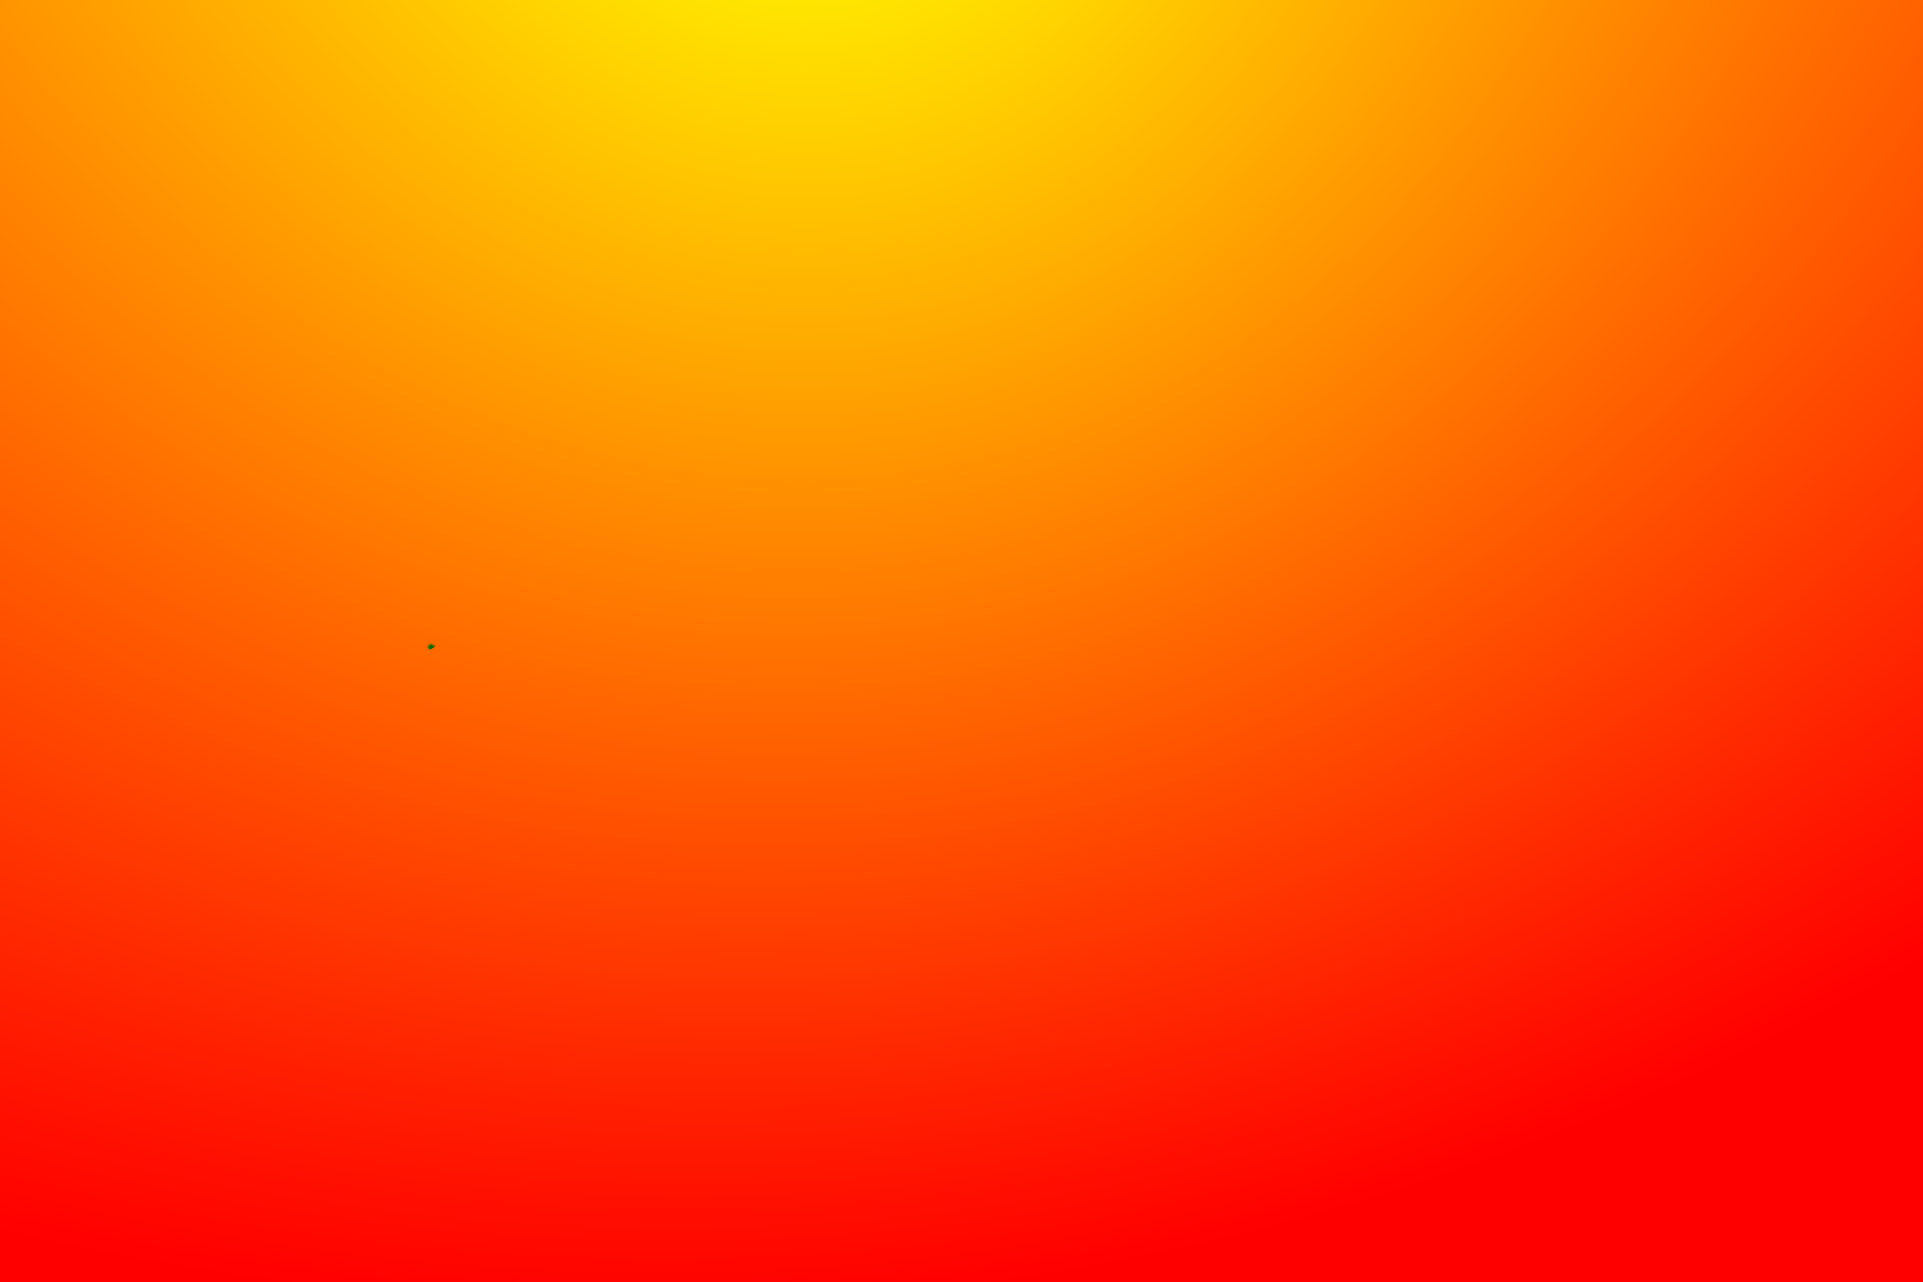
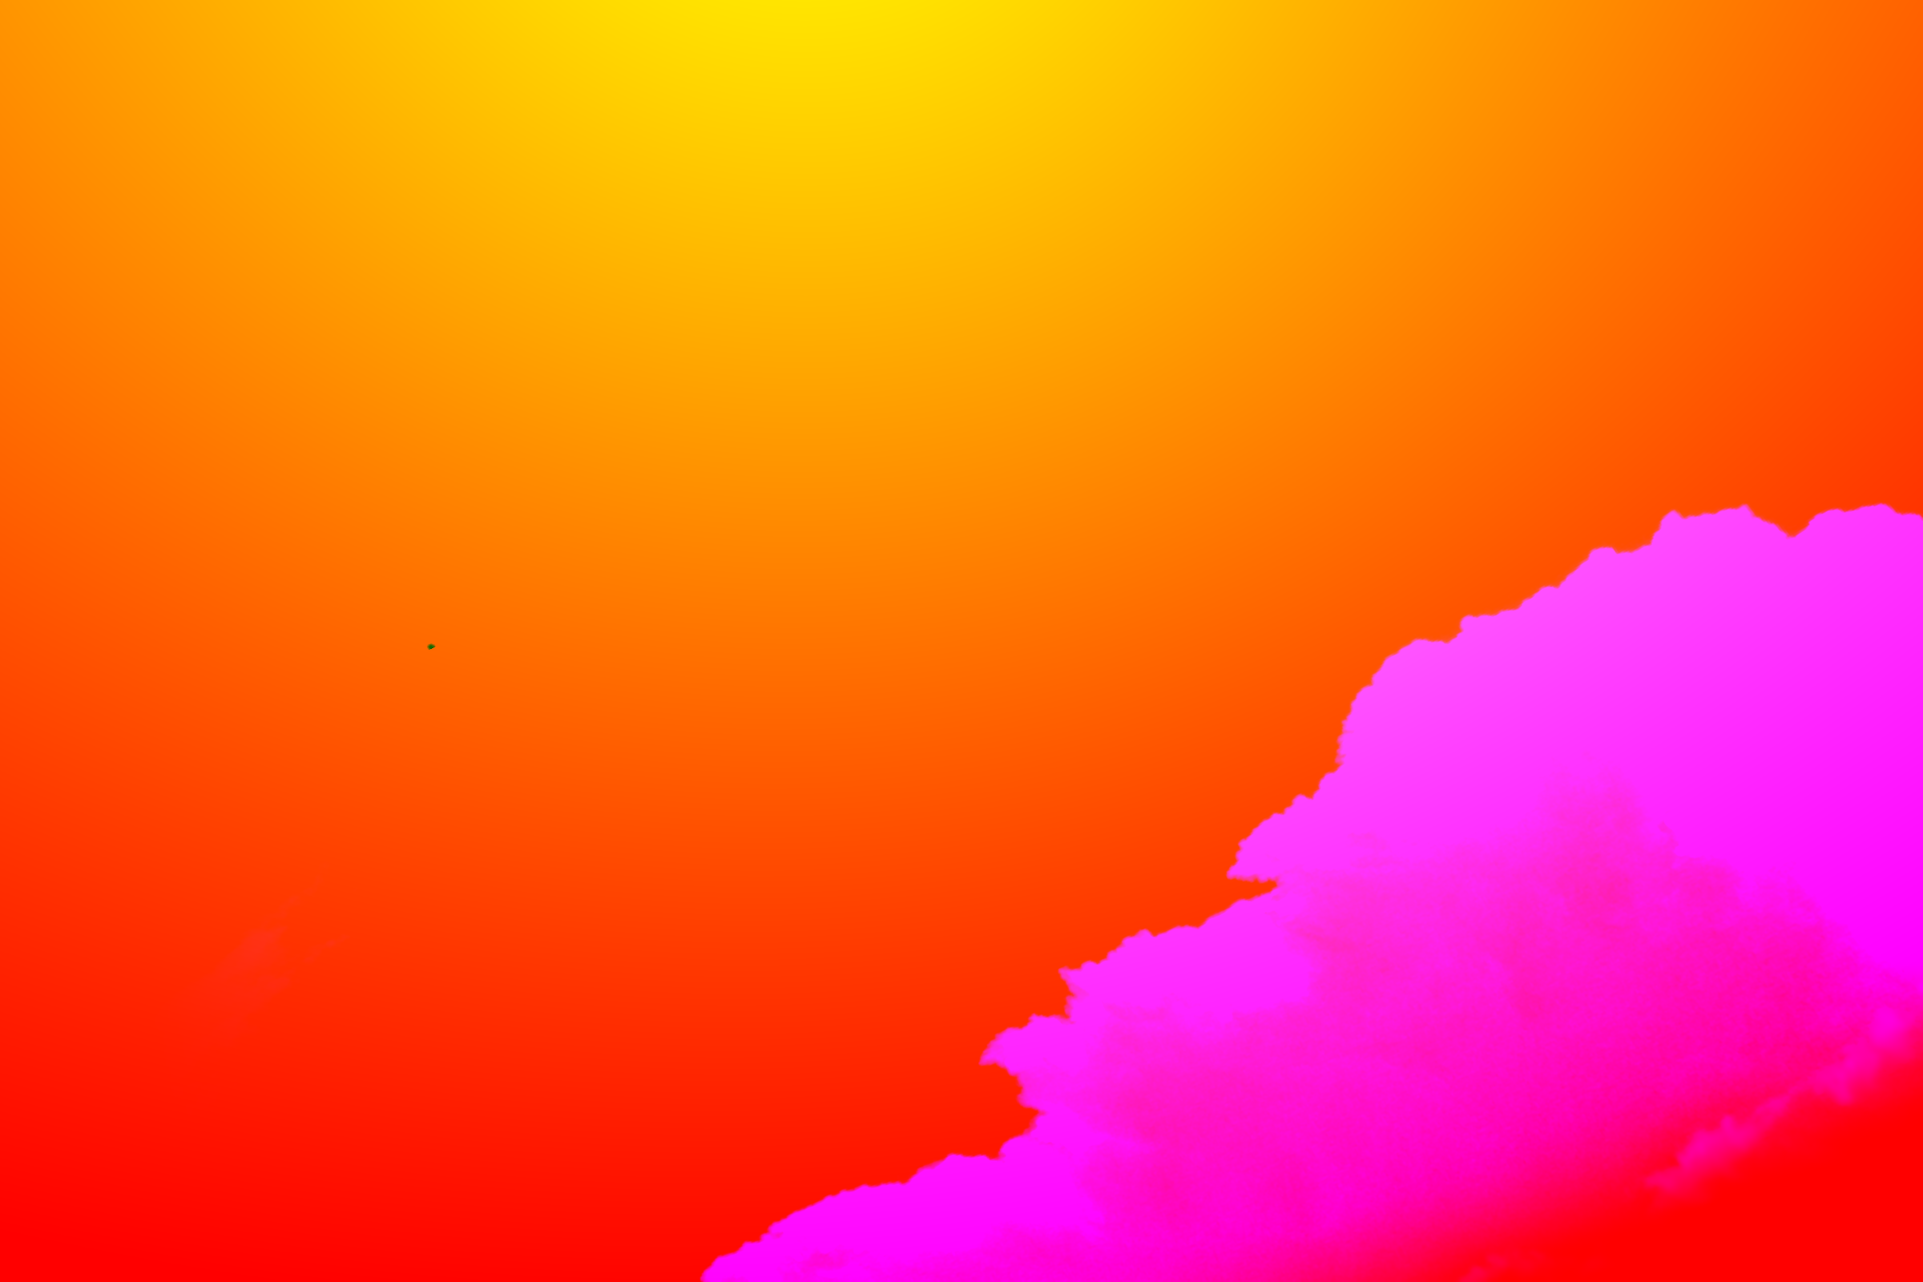
Lab: climb denchuka round 1
Claude-Session: https://claude.ai/code/session_01RqENhngNCzDFmJWDZueXGV

Changed region(s): [[0.3438, 0.375, 1.0, 1.0]]

diff --git a/src/app/lab/denchuka/denchukaEngine.js b/src/app/lab/denchuka/denchukaEngine.js
@@ -39,6 +39,14 @@ import { createFilm, FILM_PRESETS } from "../_kit/film";
 // up the sky each pixel looks, from the camera), with skylight-blue shade and
 // warm sunlit tops on the cloud; the film then adds only its optics.
 //
+// Behind the pole, rising from the lower right behind the shaft, stands a
+// real towering cumulus (cloud.py: Poly Haven's Skidpan HDRI, CC0, placed
+// under this camera so its verticals converge with the pole's), laid into the
+// same regrade through the same matte (sky.png B its coverage, cloud.webp its
+// colour): its sunlit tops warm-neutral and rolled off below white, its shade
+// the skylight's blue, deepening up the sky with the cobalt. Each removal
+// uncovers more of it; at the end it is the subject of the clean sky.
+//
 // Query: ?year=0..1 holds the years (elements caught mid-motion, as a still);
 // ?film=0 shows the plates before the film.
 
@@ -83,7 +91,8 @@ uniform sampler2D uP2;
 uniform sampler2D uP3;
 uniform highp sampler2D uIds;
 uniform sampler2D uAlpha;
-uniform sampler2D uSky;           // r: the sky with everything overhead gone (1 = sky); g: elevation
+uniform sampler2D uSky;           // r: the sky with everything overhead gone (1 = sky); g: elevation; b: the cumulus
+uniform sampler2D uCloud;         // the cumulus's own colour (cloud.py)
 uniform highp sampler2D uState;   // x: id, row 0 wires / 1 hardware / 2 poles: 1 = in place
 uniform vec2 uPlate;
 uniform int uNW;
@@ -151,6 +160,20 @@ vec3 skyGrade(vec3 c, float zen) {
   vec3 cloud = mix(shadeC, sunC, top);
   return mix(cloud, sky, blue);
 }
+// The towering cumulus (cloud.py: a photographed tower, unclipped, placed
+// under this camera) graded into the same light: its shade sides take the
+// skylight's blue, deeper and more saturated the higher up the sky they are
+// (the cobalt ramp, zen), its sunlit tops go warm-neutral and roll off below
+// white; in between it stays near neutral.
+vec3 cloudGrade(vec3 c, float zen) {
+  float v = dot(c, vec3(0.2126, 0.7152, 0.0722));
+  float top = smoothstep(0.83, 0.95, v);
+  float shade = 1.0 - smoothstep(0.58, 0.86, v);
+  float val = v * mix(1.0, mix(0.97, 0.9, zen), shade);
+  vec3 shadeC = hsv2rgb(vec3((211.0 + 4.0 * zen) / 360.0, 0.07 + shade * mix(0.17, 0.25, zen), val));
+  vec3 sunC = hsv2rgb(vec3(38.0 / 360.0, 0.075, min(val, 0.955)));
+  return mix(shadeC, sunC, top);
+}
 // A wire's matte at a plate point, filtered bilinearly over its own texels
 // only, so a wire moved by a fraction of a pixel keeps its sub-pixel width
 // instead of snapping to the grid. best: its densest texel there (for colour).
@@ -202,11 +225,15 @@ void main() {
   // (photo = a x object + (1 - a) x sky), so only the sky's share is moved,
   // by the grade of the sky behind everything (p3). Grading the mixed rim
   // pixel itself leaves the teal in it: a green outline round every shaft.
-  vec2 sk = texture(uSky, pp / uPlate).rg;
+  // The cumulus stands in that same sky, behind everything: wherever the sky
+  // shows, the cloud is laid over the regraded sky at its own coverage (b).
+  vec3 sk = texture(uSky, pp / uPlate).rgb;
   float skyA = sk.r * (1.0 - cov);
   if (skyA > 0.002) {
     vec3 behind = plate(3, pp, rk);
-    col = clamp(col + skyA * (skyGrade(behind, sk.g) - behind), 0.0, 1.0);
+    vec3 graded = skyGrade(behind, sk.g);
+    if (sk.b > 0.002) graded = mix(graded, cloudGrade(texture(uCloud, pp / uPlate).rgb, sk.g), sk.b);
+    col = clamp(col + skyA * (graded - behind), 0.0, 1.0);
   }
 
   // poles going down their own axes, into the ground
@@ -557,12 +584,15 @@ export async function createDenchuka(host, { embedded = false } = {}) {
 
   const [els, ...imgs] = await Promise.all([
     fetch(BASE + "elements.json").then((r) => r.json()),
-    ...["p0.webp", "p1.webp", "p2.webp", "p3.webp", "ids.png", "alpha.png", "sky.png"].map((f) => loadImage(BASE + f)),
+    ...["p0.webp", "p1.webp", "p2.webp", "p3.webp", "ids.png", "alpha.png", "sky.png", "cloud.webp"].map((f) =>
+      loadImage(BASE + f),
+    ),
   ]);
   const plates = imgs.slice(0, 4).map((im) => imageTexture(gl, im));
   const idsTex = imageTexture(gl, imgs[4], true);
   const alphaTex = imageTexture(gl, imgs[5], true);
   const skyTex = imageTexture(gl, imgs[6]);
+  const cloudTex = imageTexture(gl, imgs[7]);
 
   // Element table.
   // a is the element's progress here, so the span's start is kept as from
@@ -762,6 +792,7 @@ export async function createDenchuka(host, { embedded = false } = {}) {
     bindTex(5, alphaTex, u.uAlpha);
     bindTex(6, stateTex, u.uState);
     bindTex(7, skyTex, u.uSky);
+    bindTex(8, cloudTex, u.uCloud);
     gl.uniform2f(u.uPlate, PW, PH);
     gl.uniform1i(u.uNW, nw);
     gl.uniform4fv(u.uW, uW);
@@ -896,7 +927,7 @@ export async function createDenchuka(host, { embedded = false } = {}) {
       host.removeEventListener("keydown", onKey);
       film.destroy();
       Object.values(T).forEach((t) => freeTarget(gl, t));
-      [...plates, idsTex, alphaTex, skyTex, stateTex].forEach((t) => gl.deleteTexture(t));
+      [...plates, idsTex, alphaTex, skyTex, cloudTex, stateTex].forEach((t) => gl.deleteTexture(t));
       Object.values(P).forEach((p) => gl.deleteProgram(p.p));
       gl.deleteBuffer(quad);
       gl.deleteVertexArray(vao);

diff --git a/tools/depth/bakes/denchuka/cloud.py b/tools/depth/bakes/denchuka/cloud.py
@@ -1,0 +1,252 @@
+# Denchuka, step 5: the towering cumulus behind the pole.
+#
+#   python3 -I cloud.py <skidpan_16k.hdr> <public/lab/denchuka> [preview.jpg [matte.jpg]]
+#
+# (skidpan_16k.hdr: https://dl.polyhaven.org/file/ph-assets/HDRIs/hdr/16k%2B/skidpan_16k.hdr;
+# CLOUD_DEBUG=<jpg> also writes the HDRI window with what the base is cut above)
+#
+# The scan's sky has no cloud worth the name: a few wisps and a grey fragment cut
+# off at the top right. This puts a real, photographed towering cumulus behind
+# the pole, rising from the lower right behind the shaft, so each removal (the
+# wires, then the hardware, then the pole) uncovers more of it and the clean sky
+# at the end has a subject.
+#
+# The cloud: Poly Haven's "Skidpan" HDRI (Dimitrios Savva, Jarod Guest, CC0), a
+# convective tower over the horizon about 75 degrees round from its sun, lit
+# from the front and a little from the right (as the pole is), in scene-linear
+# radiance, so its sunlit tops are unclipped.
+#
+# Placed under the photograph's own camera (f and the zenith's vanishing point
+# from elements.json, export.py): the cloud stands in a vertical plane through
+# the zenith, so its verticals converge on the same vanishing point as the
+# pole's, and the camera's roll tilts it with the pole. The HDRI's tower stands
+# 3..28 degrees up; here it is nearer (twice the size, the same both ways, so
+# its billows keep their shape) and higher, its crown right of the shaft at
+# mid-frame. Its lower flank stands behind a tree in the HDRI, so it is given
+# a flat base above the tree, shaded, which falls at the bottom right corner.
+#
+# Matte: the sky in the HDRI is a saturated blue, the cloud near neutral, so
+# the cloud's coverage is how far a pixel's blue excess q = (B - R) / (B + R)
+# has fallen from the clear sky's (fitted smoothly round it) toward the
+# cloud's. The cloud's own colour is unmixed from the sky behind it
+# (pixel = a x cloud + (1 - a) x sky), filled outward from its edge by a
+# membrane, so the edge never carries the HDRI's sky into the plate's.
+#
+# Tone: linear radiance over the tower's brightest tops, through a soft shoulder
+# (sunlit tops land at ~0.95 and roll off, never clip), into display values the
+# live grade (denchukaEngine.js cloudGrade) then tints: shade to skylight blue,
+# sunlit tops warm-neutral, both deepened with elevation (sky.png G).
+#
+# Writes cloud.webp (RGB: the cloud's colour, opaque) and the B channel of
+# sky.png (the cloud's coverage). Run after export.py, which writes sky.png R, G.
+import os, sys, json
+import numpy as np, cv2
+
+HERE = os.path.dirname(os.path.abspath(__file__))
+sys.path.insert(0, os.path.abspath(os.path.join(HERE, "..", "..")))
+sys.path.insert(0, HERE)
+from membrane import push_pull  # noqa: E402
+
+src = sys.argv[1]
+out = sys.argv[2].rstrip("/") + "/"
+preview = sys.argv[3] if len(sys.argv) > 3 else None
+
+# ---------------------------------------------------------------- placement
+# HDRI: the tower's crown (its highest turret) is at u = U_CROWN, EL_CROWN deg
+U_CROWN, EL_CROWN = 0.163, 27.6
+# ... and it lands at plate (AX, AY), magnified MAG times (angles)
+AX, AY = 1780.0, 720.0
+MAG = 2.0
+# the cloud stands in the vertical plane through the zenith and this plate
+# point (in the HDRI: the vertical through the crown)
+FX, FY = 1800.0, 900.0
+
+els = json.load(open(out + "elements.json"))
+W, H = els["size"]
+f = els["camera"]["f"]
+vx, vy = els["camera"]["zenith"]
+cx, cy = (W - 1) / 2, (H - 1) / 2
+U = np.array([(vx - cx) / f, (cy - vy) / f, -1.0])
+U /= np.linalg.norm(U)
+pitch = np.degrees(np.arcsin(-U[2]))
+print(f"camera: f {f}, pitch {pitch:.1f} (elements.json says {els['camera']['pitch']})")
+Ecam = np.array([1.0, 0.0, 0.0])
+E = Ecam - Ecam.dot(U) * U
+E /= np.linalg.norm(E)
+N = np.cross(U, E)  # horizontal, forward
+if N[2] > 0:
+    N = -N
+
+
+def ray(x, y):
+    r = np.stack([(x - cx) / f, -(y - cy) / f, -np.ones_like(np.asarray(x, np.float64))], -1)
+    return r / np.linalg.norm(r, axis=-1, keepdims=True)
+
+
+# The cloud's own angles: beta, out of the vertical plane through the zenith and
+# (FX, FY); alpha, up that plane from the horizon. The same angles round the
+# crown's vertical in the HDRI, scaled by MAG about the crown: a vertical
+# stays a vertical, converging on the zenith's vanishing point with the pole,
+# and the cloud keeps its shape (the scale is the same both ways).
+r = ray(np.array(FX), np.array(FY))
+phi = np.arctan2(r @ E, r @ N)
+nrm = np.cos(phi) * N + np.sin(phi) * E
+lat = np.cos(phi) * E - np.sin(phi) * N
+
+
+def angles(x, y):
+    r = ray(x, y)
+    return np.arcsin(np.clip(r @ lat, -1, 1)), np.arctan2(r @ U, r @ nrm)
+
+
+ba, aa = angles(np.array(AX), np.array(AY))
+ys, xs = np.mgrid[0:H, 0:W].astype(np.float64)
+B, A = angles(xs, ys)
+bh = (B - ba) / MAG
+ah = np.radians(EL_CROWN) + (A - aa) / MAG
+d = np.stack([np.sin(bh), np.cos(bh) * np.sin(ah), np.cos(bh) * np.cos(ah)], -1)  # east, up, north
+az = np.arctan2(d[..., 0], d[..., 2])
+el = np.degrees(np.arcsin(np.clip(d[..., 1], -1, 1)))
+print(f"HDRI elevation in frame: {el.min():.1f} .. {el.max():.1f}, azimuth {np.degrees(az.min()):.1f} .. {np.degrees(az.max()):.1f}")
+
+# ---------------------------------------------------------------- sample the HDRI
+hdr = cv2.imread(src, cv2.IMREAD_UNCHANGED)
+EH, EW = hdr.shape[:2]
+uu = (U_CROWN + az / (2 * np.pi)) * EW - 0.5
+vv = (0.5 - np.radians(el) / np.pi) * EH - 0.5
+x0, x1 = int(np.floor(uu.min())) - 4, int(np.ceil(uu.max())) + 4
+y0, y1 = max(0, int(np.floor(vv.min())) - 4), min(EH, int(np.ceil(vv.max())) + 400)
+win = hdr[y0:y1, x0:x1, ::-1].astype(np.float32).copy()  # RGB
+del hdr
+print(f"window {x1 - x0}x{y1 - y0} px of the {EW}x{EH} HDRI")
+# Power lines cross the HDRI's sky and the foot of the cloud: thin, darker than
+# what is either side of them (a black-hat in log luminance over a 9 px
+# closing), long and nearly level. Found in the window and filled with a
+# membrane of what is round them.
+lY = np.log(np.maximum(win @ np.array([0.2126, 0.7152, 0.0722], np.float32), 1e-5))
+bh_ = cv2.morphologyEx(lY, cv2.MORPH_CLOSE, cv2.getStructuringElement(cv2.MORPH_RECT, (1, 9))) - lY
+line = (bh_ > 0.12).astype(np.uint8)
+# keep only long, level runs (a wire), not the edges of turrets
+line = cv2.morphologyEx(line, cv2.MORPH_OPEN, np.ones((1, 41), np.uint8))
+line = cv2.dilate(line, np.ones((5, 9), np.uint8)) > 0
+print(f"power lines: {line.mean() * 100:.2f}% of the window")
+win = push_pull(win, (~line).astype(np.float32)) * line[..., None] + win * (~line)[..., None]
+img = cv2.remap(win, (uu - x0).astype(np.float32), (vv - y0).astype(np.float32), cv2.INTER_LANCZOS4,
+                borderMode=cv2.BORDER_REFLECT)
+img = np.maximum(img, 1e-5)
+
+# The base. Under the tower, in the HDRI, stand trees, a lamp post and a fence:
+# in each of its columns, the highest thing that is neither sky nor cloud (dark,
+# and not blue), its envelope smoothed across the columns. The tallest tree
+# reaches ~15 deg, halfway up the tower, so the cloud is given a flat base, as
+# a cumulus has (its condensation level), at BASE deg or just above the
+# envelope, whichever is higher: an edge broken up by the cloud's own texture,
+# and shaded toward it (a cumulus's base is in its own shadow).
+BASE, BASE_SOFT, BASE_SHADE = 15.6, 2.4, 7.0
+wq = (win[..., 2] - win[..., 0]) / np.maximum(win[..., 2] + win[..., 0], 1e-6)
+wY = win @ np.array([0.2126, 0.7152, 0.0722], np.float32)
+rowY = np.median(wY[: max(8, (vv.min() - y0).astype(int) + 8)], axis=0)  # the sky high above, per column
+ground = (wY < 0.55 * np.maximum(rowY, 1e-6)) & (wq < 0.32)
+ground = cv2.morphologyEx(ground.astype(np.uint8), cv2.MORPH_OPEN, np.ones((3, 3), np.uint8)) > 0
+top = np.where(ground.any(0), ground.argmax(0), win.shape[0]).astype(np.float32)
+# envelope: the highest ground within a few columns either side, then smoothed
+k = max(3, int(win.shape[1] * 0.02))
+top = cv2.erode(top[None], np.ones((1, 2 * k + 1), np.float32))[0]
+top = cv2.GaussianBlur(top[None], (0, 0), 1.5 * k, borderType=cv2.BORDER_REPLICATE)[0]
+topEl = 90 - (top + y0 + 0.5) / EH * 180  # elevation of that envelope, deg
+if os.environ.get("CLOUD_DEBUG"):
+    t = np.clip(win / np.percentile(win, 99.5), 0, 1) ** (1 / 2.2)
+    t[ground] = t[ground] * 0.5 + np.array([0.5, 0, 0], np.float32)
+    for xx in range(0, win.shape[1], 2):
+        t[min(int(top[xx]), win.shape[0] - 1), xx] = (0, 1, 0)
+    cv2.imwrite(os.environ["CLOUD_DEBUG"], (t[:, :, ::-1] * 255).astype(np.uint8)[::3, ::3])
+fx = np.clip(uu - x0, 0, win.shape[1] - 1).astype(np.int32)
+footEl = topEl[fx]
+
+# ---------------------------------------------------------------- matte
+R_, G_, B_ = img[..., 0], img[..., 1], img[..., 2]
+q = (B_ - R_) / (B_ + R_)
+Y = 0.2126 * R_ + 0.7152 * G_ + 0.0722 * B_
+# clear sky: blue enough, and smooth
+clear = q > 0.30
+# fit the clear sky's q and colour with a low-order surface in the plate
+def fit(v, m, deg=3):
+    sx, sy = xs[m][::7] / W, ys[m][::7] / H
+    cols = [sx ** i * sy ** j for i in range(deg + 1) for j in range(deg + 1 - i)]
+    A = np.stack(cols, -1)
+    c = np.linalg.lstsq(A, v[m][::7], rcond=None)[0]
+    X, Yy = xs / W, ys / H
+    return sum(ci * X ** i * Yy ** j for ci, (i, j) in zip(c, [(i, j) for i in range(deg + 1) for j in range(deg + 1 - i)]))
+qs = fit(q, clear)
+sky = np.stack([fit(img[..., k], clear) for k in range(3)], -1)
+QC = 0.03  # the cloud's own blue excess (its shade sides, lit by the sky, are a little blue)
+a = np.clip((qs - q) / np.maximum(qs - QC, 0.05), 0, 1)
+# and brighter than the sky behind it, or it is not cloud (the HDRI's sky
+# deepens away from the horizon; a darker, less blue pixel there is haze)
+a *= np.clip((Y / (sky @ [0.2126, 0.7152, 0.0722]) - 0.95) / 0.35, 0, 1)
+a = cv2.GaussianBlur(a.astype(np.float32), (0, 0), 0.7)
+a = np.clip((a - 0.04) / 0.9, 0, 1)
+# the base: flat, broken by the cloud's own billows (its log luminance, band-passed)
+lY = np.log(np.maximum(Y, 1e-6))
+bp = cv2.GaussianBlur(lY, (0, 0), 3) - cv2.GaussianBlur(lY, (0, 0), 24)
+base = np.maximum(BASE, footEl + 0.6) - np.clip(bp, -0.5, 0.5) * 1.6
+foot = np.clip((el - base) / BASE_SOFT, 0, 1)
+foot = foot * foot * (3 - 2 * foot)
+a *= foot
+under = 1 - np.clip((el - base) / BASE_SHADE, 0, 1)
+# the anvil's far tail, streaming off to the left of the tower, thins out
+# into the blue (as an anvil's cirrus does) between TAIL0 and TAIL1 deg
+TAIL0, TAIL1 = -19.0, -29.0
+tail = np.clip((np.degrees(az) - TAIL1) / (TAIL0 - TAIL1), 0, 1)
+a *= tail * tail * (3 - 2 * tail)
+
+# the cloud's own colour, unmixed against the sky behind it
+am = np.maximum(a, 1e-3)[..., None]
+C = (img - (1 - a[..., None]) * sky) / am
+C = np.clip(C, 0, None)
+# the colour is trusted only well inside the cloud; its edge (where the
+# unmixing amplifies any error in the fitted sky into a dark rim) takes the
+# colour of the cloud just inside it
+w = np.clip((a - 0.6) / 0.3, 0, 1).astype(np.float32)
+# (the rim itself is a few px of darker, bluer pixels where the cloud thins:
+# kept out, so the edge never draws a dark line round the cloud)
+w = cv2.erode(w, cv2.getStructuringElement(cv2.MORPH_ELLIPSE, (11, 11)))
+C = np.where((w > 0)[..., None], C, 0)
+Cf = push_pull(C.astype(np.float32), w)
+C = C * w[..., None] + Cf * (1 - w[..., None])
+# toward the base, the cloud is in its own shadow, lit only by the sky
+C = C * (1 - 0.45 * under * under)[..., None]
+
+# ---------------------------------------------------------------- tone
+CY = C @ np.array([0.2126, 0.7152, 0.0722])
+ref = np.percentile(CY[a > 0.9], 99.5)
+x = CY / ref
+# soft shoulder: the tops at ~0.95, nothing ever reaches 1
+SH = 0.955
+KS = 2.6
+disp = SH * (1 - np.exp(-KS * np.maximum(x, 0) ** 0.56)) / (1 - np.exp(-KS))
+chroma = C / np.maximum(CY, 1e-6)[..., None]
+# keep the HDRI's own tint, a little softened (the live grade sets the tint)
+chroma = 1 + (chroma - 1) * 0.6
+lin = chroma * (disp ** 2.2)[..., None]
+rgb = np.clip(lin, 0, 1) ** (1 / 2.2)
+print(f"cloud display: p50 {np.percentile(rgb[a > 0.5], 50):.3f}  p99.9 {np.percentile(rgb[a > 0.5], 99.9):.3f}  max {rgb[a > 0.5].max():.3f}")
+print(f"coverage: {np.mean(a > 0.5) * 100:.1f}% of the frame")
+
+# ---------------------------------------------------------------- write
+cv2.imwrite(out + "cloud.webp", (np.clip(rgb, 0, 1)[:, :, ::-1] * 255 + 0.5).astype(np.uint8), [cv2.IMWRITE_WEBP_QUALITY, 90])
+sk = cv2.imread(out + "sky.png", cv2.IMREAD_COLOR)  # BGR
+sk[:, :, 0] = (np.clip(a, 0, 1) * 255 + 0.5).astype(np.uint8)
+cv2.imwrite(out + "sky.png", sk, [cv2.IMWRITE_PNG_COMPRESSION, 9])
+for fn in ("cloud.webp", "sky.png"):
+    print(fn, os.path.getsize(out + fn) // 1024, "KB")
+
+if preview:
+    p0 = cv2.imread(out + "p0.webp")[:, :, ::-1].astype(np.float32) / 255
+    s = sk[:, :, 2:3].astype(np.float32) / 255
+    A = a[..., None] * s
+    pv = p0 * (1 - A) + rgb * A
+    cv2.imwrite(preview, (np.clip(pv, 0, 1)[:, :, ::-1] * 255).astype(np.uint8)[::2, ::2], [cv2.IMWRITE_JPEG_QUALITY, 90])
+    if len(sys.argv) > 4:
+        dbg = np.concatenate([np.repeat(a[..., None], 3, -1), rgb], 1)
+        cv2.imwrite(sys.argv[4], (np.clip(dbg, 0, 1)[:, :, ::-1] * 255).astype(np.uint8)[::3, ::3])

diff --git a/tools/depth/bakes/denchuka/export.py b/tools/depth/bakes/denchuka/export.py
@@ -18,6 +18,8 @@
 #                     live grade multiplies it by whatever still stands in front
 #                  G  how far up the sky this is: elevation above the horizon,
 #                     30 -> 0 .. 85 deg -> 1, from the camera (below)
+#                  B  the towering cumulus's coverage: 0 here, written by cloud.py
+#                     (run it after this; it also writes cloud.webp)
 # elements.json    every element with its geometry and its year
 #
 # The camera. MoGe-2 (normals.py) gives the focal length; gravity comes from the
